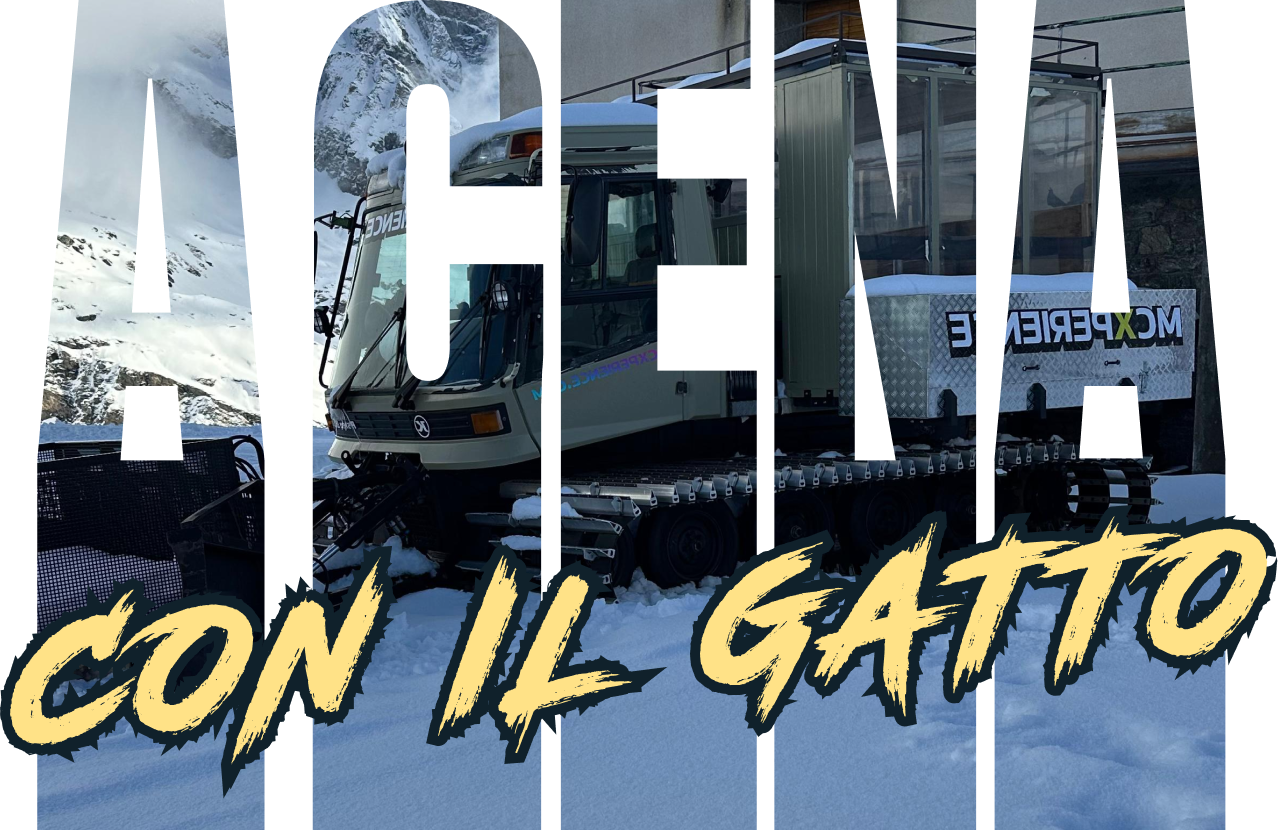
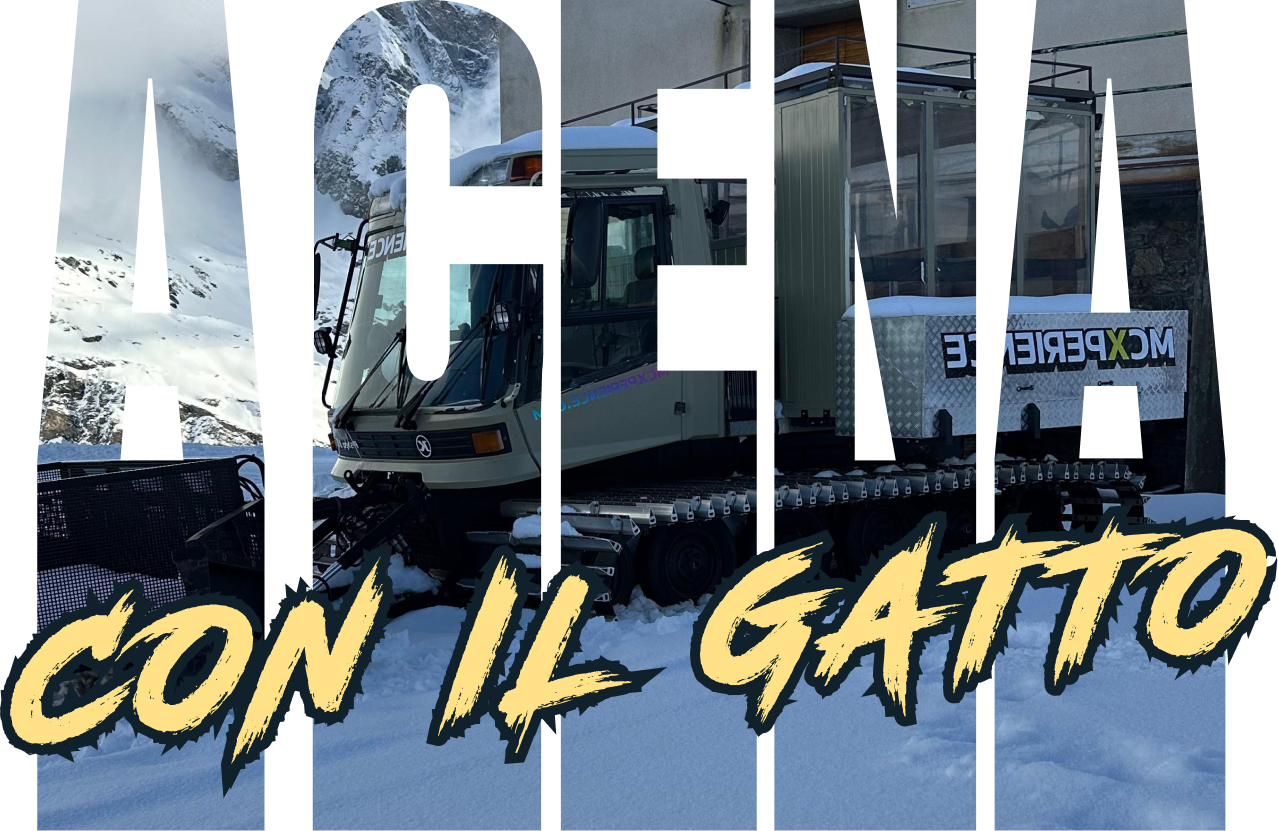
waaa

diff --git a/pages/gatto.vue b/pages/gatto.vue
@@ -49,20 +49,26 @@
           <div class="flex flex-col gap-6">
             <h6 class="font-bigger text-c-1 text-style-big">CENE ROMANTICHE</h6>
             <p class="text-style-3 text-c-1 italic font-medium leading-relaxed">
-              Briefing iniziale e consigli tecnici. Casco e protezioni
-              omologate. Assistenza durante il percorso.
-            </p>
-            <h6 class="font-bigger text-c-1 text-style-big mt-6">ESCURSIONI</h6>
-            <p class="text-style-3 text-c-1 italic font-medium leading-relaxed">
-              Tecnologia avanzata: moto silenziose, potenti e progettate per
-              affrontare.
+              Un viaggio suggestivo a bordo del gatto delle nevi tra i paesaggi
+              innevati di Cervinia. Raggiungi l'Hotel Lo Stambecco per una cena
+              esclusiva sotto le stelle.
             </p>
             <h6 class="font-bigger text-c-1 text-style-big mt-6">
-              EVENTI PERSONALIZZATI
+              ESPERIENZE IN QUOTA
             </h6>
             <p class="text-style-3 text-c-1 italic font-medium leading-relaxed">
-              Guida senza lasciare tracce, rispettando l’ambiente montano tra
-              percorsi panoramici nel cuore di Cervinia.
+              Salite ad alta quota tra paesaggi mozzafiato. Fermati per un
+              brindisi sulla neve e goditi la vista delle cime illuminate dalla
+              luna.
+            </p>
+            <h6 class="font-bigger text-c-1 text-style-big mt-6">
+              APERITIVI AL TRAMONTO E CENE IN STRUTTURA
+            </h6>
+            <p class="text-style-3 text-c-1 italic font-medium leading-relaxed">
+              Goditi un aperitivo indimenticabile in alta quota, con vista
+              mozzafiato sulle montagne illuminate dalle ultime luci del giorno.
+              Un'esperienza unica per celebrare momenti speciali presso l'Hotel
+              Lo Stambecco.
             </p>
           </div>
           <img src="../assets/gatto/gatto3.png" class="lg:w-[55vw]" alt="" />
@@ -101,7 +107,7 @@
 }
 
 .hero {
-  background-image: url("../assets/gatto/home.jpeg");
+  background-image: url("../assets/gatto/gatto5.png");
   background-size: cover;
   background-position: bottom;
   height: 140svh;

diff --git a/pages/moto.vue b/pages/moto.vue
@@ -58,7 +58,7 @@
               omologate. Assistenza durante il percorso.
             </p>
             <h6 class="font-bigger text-c-1 text-style-big mt-6">
-              PERCORSI MOZZAFIATO
+              PERCORSO DEDICATO MOZZAFIATO
             </h6>
             <p class="text-style-3 text-c-1 italic font-medium leading-relaxed">
               Prenota direttamente dal sito. Al punto di ritrovo riceverai un
@@ -91,8 +91,9 @@
       </h6>
       <p class="text-style-3 text-c-1 italic font-medium leading-relaxed">
         Potrai raggiungerci comodamente con la tua auto fino a Breuil-Cervinia.
-        Passato il centro paese arriverai alla partenza della seggiovia Cretaz,
-        Li ci sará il nostro gattto delle nevi pronto ad accoglierti.
+        Da lì in poi dovrai recarti al piazzale delle funivie del Cervino e
+        prendere il primo impianto per arrivare a Plan Maison presso l'Hotel Lo
+        Stambecco.
       </p>
     </div>
   </div>

diff --git a/pages/index.vue b/pages/index.vue
@@ -21,7 +21,7 @@
       >
         <img
           class="w-[50vw] lg:w-[25vw] aspect-square"
-          src="../assets/home/home1.jpg"
+          src="../assets/home/home5.png"
           alt="NOLEGGIO MOTO ELETTRICHE CERVINIA"
         />
         <h5 class="font-bigger text-style-1 mt-12">NOLEGGIO SNOWCROSS</h5>
@@ -33,7 +33,7 @@
       >
         <img
           class="w-[50vw] lg:w-[25vw] object-fill aspect-square"
-          src="../assets/home/home4.png"
+          src="../assets/home/home6.png"
           alt="CENA GATTO DELLE NEVI CERVINIA"
         />
         <h5 class="font-bigger text-style-1 mt-12">CENA IN QUOTA</h5>

diff --git a/components/Footer.vue b/components/Footer.vue
@@ -8,11 +8,7 @@
   <div class="flex flex-col items-start">
     <div :class="`bg-c-${color}`" class="w-full p-12 flex items-center gap-6">
       <p class="text-style-bigger text-c-1 font-bigger">CONTATTACI</p>
-      <img
-        src="../assets/svg/msg.svg"
-        alt="email mcxperience"
-        class="heio mr-6"
-      />
+      <img src="../assets/svg/msg.svg" alt="email mcxperience" class="heio" />
     </div>
     <div class="m-12 flex flex-col items-start gap-6">
       <a

diff --git a/assets/main.scss b/assets/main.scss
@@ -268,8 +268,7 @@
   transition: all 800ms var(--cubic-bezier);
 }
 
-::-moz-selection {
-  /* Code for Firefox */
+/* ::-moz-selection {
   @apply text-c-1;
   @apply bg-c-4;
 }
@@ -277,7 +276,7 @@
 ::selection {
   @apply text-c-1;
   @apply bg-c-4;
-}
+} */
 
 .rotate-45 {
   @apply rotate-[45deg];

diff --git a/tailwind.config.ts b/tailwind.config.ts
@@ -18,7 +18,7 @@ export default {
           1: "#f0f0f0",
           2: "#222a36",
           3: "#d53b98",
-          4: "#fff717",
+          4: "#FFE287",
           5: "#23C5C6",
           6: "rgba(240, 240, 240, 0.75)",
         },
